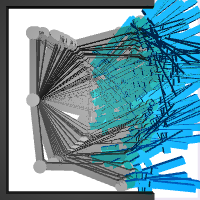
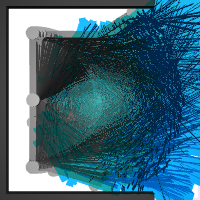
update the figures with same number of rollouts and traj-length

diff --git a/ge_world/peg_2d.py b/ge_world/peg_2d.py
@@ -87,7 +87,7 @@ class Peg2DEnv(mujoco_env.MujocoEnv):
         self.height = 64
         _ = dict()
         if 'x' in obs_keys:
-            _['x'] = spaces.Box(low=np.array([-0.3, -0.3]), high=np.array([0.3, 0.3]))
+            _['x'] = spaces.Box(low=np.array(obj_low), high=np.array(obj_high))
         if 'goal' in obs_keys:
             # todo: double check for agreement with actual goal distribution
             _['goal'] = spaces.Box(low=np.array([goal_low, goal_low]), high=np.array([goal_high, goal_high]))
@@ -128,26 +128,16 @@ class Peg2DEnv(mujoco_env.MujocoEnv):
         self.do_simulation(a, self.frame_skip)
         # note: return observation *after* simulation. This is how DeepMind Lab does it.
         ob = self._get_obs()
-        # reward = self.compute_reward(ob['x'], ob['goal'])
-        reward = - np.linalg.norm(a)
-        if self.reach_counts:
-            self.reach_counts = self.reach_counts + 1 if reward == 0 else 0
-        elif reward == 0:
-            self.reach_counts = 1
 
-        if self.done_on_goal and self.reach_counts > 1:
-            done = True
-            self.reach_counts = 0
-        else:
-            done = False
+        dist = np.linalg.norm(self._get_goal_state() - qpos[:-1], ord=2)
+        done = dist < 0.04
+        reward = float(done) - 1
 
         # offer raw action to agent
         if 'a' in self.obs_keys:
             ob['a'] = a
 
-        # todo: I changed this to 0.4 b/c discrete action jitters around. Remember to fix this. --Ge
-        # return ob, reward, done, dict(dist=dist, success=float(dist < 0.04))
-        return ob, reward, done, dict(success=0)  # float(dist < 0.04))
+        return ob, reward, done, dict(dist=dist, success=float(done))
 
     def viewer_setup(self):
         self.viewer.cam.trackbodyid = 0
@@ -231,10 +221,10 @@ class Peg2DEnv(mujoco_env.MujocoEnv):
         obs = {}
         qpos = self.sim.data.qpos.flat.copy()
         if 'x' in self.obs_keys:
-            obs['x'] = qpos[:3].copy()
+            obs['x'] = qpos[:3]
         if 'img' in self.obs_keys:
             goal = qpos[3:].copy()
-            qpos[3:] = [1]  # move slot out of frame
+            qpos[3:] = [1].copy()  # move slot out of frame
             self.set_state(qpos, self.sim.data.qvel)
             # todo: should use render('gray') instead.
             obs['img'] = self.render('grey', width=self.width, height=self.height).transpose(0, 1)[None, ...] / 255
@@ -247,22 +237,6 @@ class Peg2DEnv(mujoco_env.MujocoEnv):
 
         return obs
 
-
-from gym.envs import register
-
-# note: kwargs are not passed in to the constructor when entry_point is a function.
-register(
-    id="Peg2DImgDiscreteIdLess-v0",
-    entry_point=Peg2DEnv,
-    kwargs=dict(discrete=True, obs_keys=['x', 'goal', 'img', 'goal_img']),
-    max_episode_steps=1000,
-)
-register(
-    id="Peg2DFreeImgDiscreteIdLess-v0",
-    entry_point=Peg2DEnv,
-    kwargs=dict(discrete=True, free=True, obs_keys=['x', 'goal', 'img', 'goal_img']),
-    max_episode_steps=1000,
-)
 if __name__ == "__main__":
     import gym
     from ml_logger import logger
@@ -270,30 +244,46 @@ if __name__ == "__main__":
     from tqdm import trange
 
     # env = Peg2DEnv(discrete=True, id_less=False, obs_keys=["x", 'img'])
-    env_id = "Peg2DImgDiscreteIdLess-v0"
-    # env_id = "Peg2DFreeImgDiscreteIdLess-v0"
+    # env_id = "Peg2DImgDiscreteIdLess-v0"
+    env_id = "Peg2DFreeImgDiscreteIdLess-v0"
     env = gym.make(env_id)
 
     frames = []
 
-    env.reset()
     # env.render('human', width=200, height=200)
 
     for i in trange(100):
-        frame = env.render('rgb', width=200, height=200)
-        act = np.random.randint(low=0, high=26)
-        # act = 13
-        obs, reward, done, info = env.step(act)
-        if i == 0:
-            logger.log_image(1 - obs['img'][0], key=f"../figures/{env_id}_img.png")
-            logger.log_image(1 - obs['goal_img'][0], key=f"../figures/{env_id}_goal_img.png")
-            logger.log_image(frame, key=f"../figures/{env_id}.png")
+        env.reset()
+        for step in range(10):
+            frame = env.render('rgb', width=200, height=200)
+            act = np.random.randint(low=0, high=26)
+            # act = 13
+            obs, reward, done, info = env.step(act)
+            if i == 0:
+                logger.log_image(1 - obs['img'][0], key=f"../figures/{env_id}_img.png")
+                logger.log_image(1 - obs['goal_img'][0], key=f"../figures/{env_id}_goal_img.png")
+                logger.log_image(frame, key=f"../figures/{env_id}.png")
 
-        if np.random.random() < 0.25:
-            env.reset()
-        frames.append(frame)
+            frames.append(frame)
 
     stack = np.stack(frames)
     logger.log_image(stack.min(0), key=f"../figures/{env_id}_spread.png")
 
     print('done rendering!')
+
+else:
+    from gym.envs import register
+
+    # note: kwargs are not passed in to the constructor when entry_point is a function.
+    register(
+        id="Peg2DImgDiscreteIdLess-v0",
+        entry_point=Peg2DEnv,
+        kwargs=dict(discrete=True, obs_keys=['x', 'goal', 'img', 'goal_img']),
+        max_episode_steps=1000,
+    )
+    register(
+        id="Peg2DFreeImgDiscreteIdLess-v0",
+        entry_point=Peg2DEnv,
+        kwargs=dict(discrete=True, free=True, obs_keys=['x', 'goal', 'img', 'goal_img']),
+        max_episode_steps=1000,
+    )

diff --git a/ge_world/__init__.py b/ge_world/__init__.py
@@ -1,4 +1,4 @@
-from . import point_mass, reacher_multitask_v1, pendulum, amy_point_mass, goal_mass, c_maze, 回_maze, four_room, c_maze_cf
+from . import point_mass, reacher_multitask_v1, pendulum, amy_point_mass, goal_mass, c_maze, 回_maze, four_room, c_maze_cf, peg_2d
 
 import gym
 

diff --git a/README.md b/README.md
@@ -37,6 +37,9 @@ This is a maze navigation environment with a wall in the middle, separating the 
 
 #### Peg Insertion (2D)
 
+We make the `"img"` and `"goal_img"` ignore the slot, so that the ConvNet can focus on the position of the sword itself. 
+
+In a future work, we can have the robot learn to disentangle these components. (shouldn't be too hard.)
 
 use `"a"` key to access the raw, continuous action.
 
